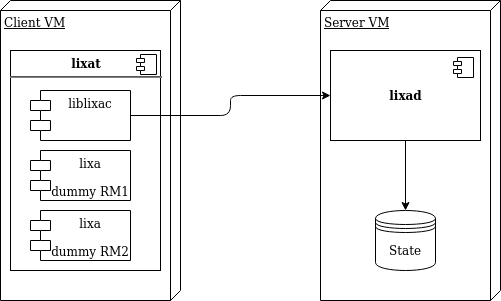
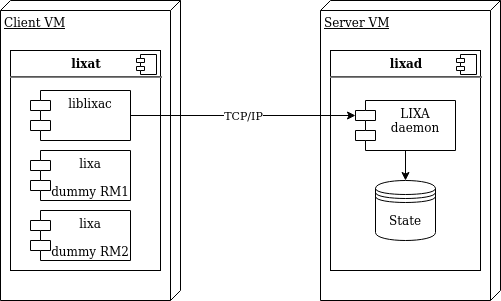
Doc

diff --git a/lixa/performances/performances.md b/lixa/performances/performances.md
@@ -29,7 +29,12 @@ As shown in the above image, the components used to perform the performance test
 - **liblixac**: the library used to manage the transaction and to communicate with the state server (**lixad**)
 - **lixa dummy RM1**, **lixa dummy RM2**: a couple of dummy Resource Managers, they behave as a real XA Resource Manager, but reply to the caller immediately
 - Server VM: a D2s v3 Azure Virtual machine to host the **lixad** daemon
-- **lixad**: the LIXA state server daemon
+- **lixad**: the LIXA state server 
+- LIXA daemon: the process of **lixad**
 - State: state files on disk used by **lixad** to persist the state in the event of crash/restart
 
+### Important Notes on Benchmark Architecture
 
+- dummy Resource Managers introduce quite zero delay: real life use cases use Resource Managers that require some time to perform XA functions. This must be considered a *worst case* condition to measure the overhead introduced by LIXA
+- **lixat** and **lixad** are deployed in distinct Virtual Machines inside the same Azure region: this is necessary to introduce the network latency and the correlated jitter that's a *noise* from measurement perspective
+- state files are saved inside a standard *Premium SSD* disk: **lixad** is a *write only* application and push a lot of work on the disk (this aspect will be furtherly described below)
